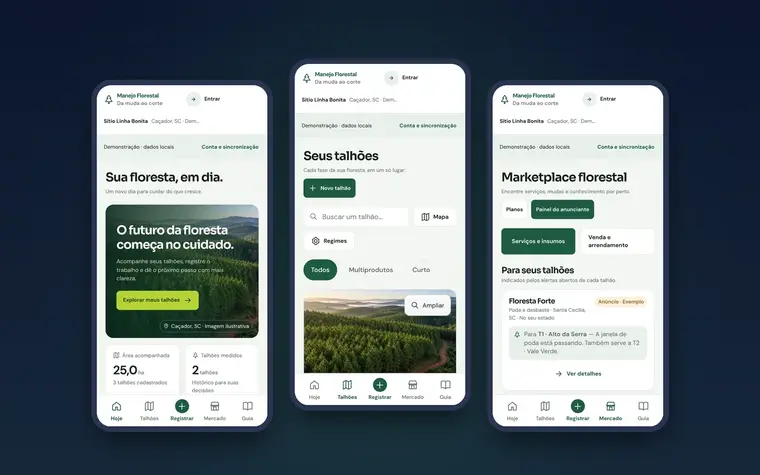
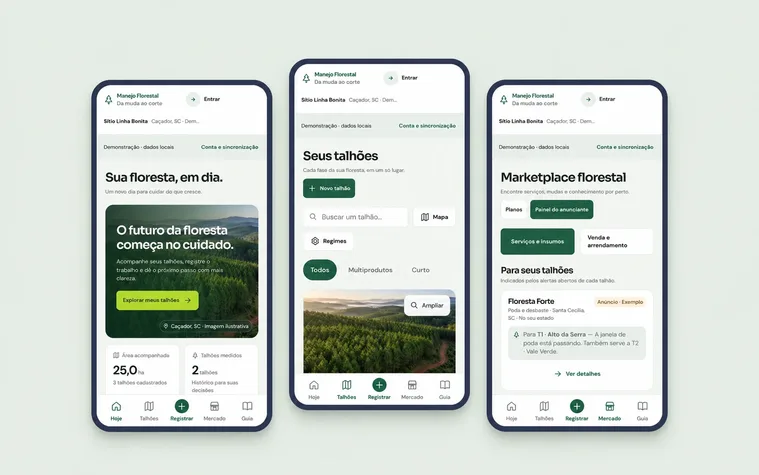
Center portfolio cards and refresh Manejo image background

diff --git a/index.html b/index.html
@@ -240,9 +240,10 @@ body::before{content:"";position:fixed;inset:0 0 auto;height:env(safe-area-inset
 .filters{display:flex;flex-wrap:wrap;gap:6px;padding:5px;border-radius:999px;width:max-content;max-width:100%}
 .filters button{font:500 13px/1 var(--f);border:0;background:transparent;color:var(--muted);padding:13px 16px;border-radius:999px;cursor:pointer;min-height:40px}
 .filters button[aria-pressed="true"]{background:var(--solid);color:var(--on-solid)}
-.projects{display:grid;grid-template-columns:repeat(3,minmax(0,1fr));gap:14px}
-@media (max-width:1000px){.projects{grid-template-columns:repeat(2,minmax(0,1fr))}}
-@media (max-width:640px){.projects{grid-template-columns:1fr}}
+.projects{display:flex;flex-wrap:wrap;justify-content:center;align-items:stretch;gap:18px}
+.projects>*{flex:0 0 calc((100% - 36px)/3);min-width:0}
+@media (max-width:1000px){.projects>*{flex-basis:calc((100% - 18px)/2)}}
+@media (max-width:640px){.projects>*{flex-basis:100%}}
 .proj-shot{margin:-6px -6px 2px;border-radius:12px;overflow:hidden;aspect-ratio:16/10;background:#0B132B}.proj-shot .zoom{all:unset;display:block;width:100%;height:100%;cursor:zoom-in}.proj-shot .zoom:focus-visible{outline:2px solid var(--accent);outline-offset:-2px}.proj-shot img{width:100%;height:100%;object-fit:cover;display:block}
 .proj{padding:18px;display:flex;flex-direction:column;gap:12px;transition:transform .25s ease}
 .proj:hover{transform:translateY(-4px)}
@@ -264,7 +265,7 @@ body::before{content:"";position:fixed;inset:0 0 auto;height:env(safe-area-inset
 .proj.dark .av,.proj.dark .badge{background:rgba(127,127,127,.18);border-color:var(--solid-line);color:var(--on-solid)}
 .proj.dark .meter .tr{background:rgba(127,127,127,.25)} .proj.dark .meter .tr i{background:var(--accent)}
 .more{display:none;margin:16px auto 0}
-.proj-pair{display:flex;flex-direction:column;gap:14px;min-width:0}.proj-pair>.proj{flex:1;padding:14px 16px;gap:8px}.proj-pair .quote{padding:10px 12px;font-size:13.5px;line-height:1.45;margin:0}.proj-pair .proj-foot{margin-top:auto}@media (max-width:640px){.projects.collapsed>:nth-child(n+5){display:none}.more{display:flex}}
+.proj-pair{display:grid;grid-template-rows:repeat(2,minmax(0,1fr));gap:18px;min-width:0}.proj-pair>.proj{flex:1;padding:14px 16px;gap:8px}.proj-pair .quote{padding:10px 12px;font-size:13.5px;line-height:1.45;margin:0}.proj-pair .proj-foot{margin-top:auto}@media (max-width:640px){.projects.collapsed>:nth-child(n+5){display:none}.more{display:flex}}
 .proj.dark .pill-glass{background:var(--accent);color:var(--on-accent);border-color:transparent}
 
 /* funil do processo */
@@ -600,7 +601,7 @@ footer .sp{margin-left:auto}
 
     <div class="projects collapsed" id="projects">
       <article class="proj glass" data-cat="soft">
-        <figure class="proj-shot"><button type="button" class="zoom" data-full="img/projetos/manejo-full.webp?v=1" aria-label="Ampliar telas do app"><img srcset="img/projetos/manejo-sm.webp?v=4 760w, img/projetos/manejo.webp?v=4 1248w" sizes="(max-width: 760px) 92vw, 600px" src="img/projetos/manejo.webp?v=4" width="1248" height="780" loading="lazy" decoding="async" alt="Telas do app Manejo Florestal: início, talhões e marketplace"></button></figure>
+        <figure class="proj-shot"><button type="button" class="zoom" data-full="img/projetos/manejo-full.webp?v=5" aria-label="Ampliar telas do app"><img srcset="img/projetos/manejo-sm.webp?v=5 760w, img/projetos/manejo.webp?v=5 1248w" sizes="(max-width: 760px) 92vw, 600px" src="img/projetos/manejo.webp?v=5" width="1248" height="780" loading="lazy" decoding="async" alt="Telas do app Manejo Florestal: início, talhões e marketplace"></button></figure>
         <div class="proj-top"><span class="av">MF</span><div><h3>Manejo Florestal</h3><p>Aplicativo · produtores de pinus</p></div><span class="badge ok">● no ar</span></div>
         <span class="tagline">Projeto 01 · app próprio</span>
         <p class="quote">Talhões no mapa, medições offline e alertas de poda e desbaste, com marketplace de viveiros.</p>
